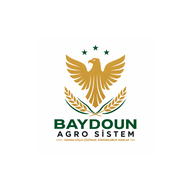
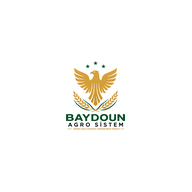
Add files via upload

Changed region(s): [[0.2812, 0.2188, 0.7188, 0.75]]

diff --git a/index.html b/index.html
@@ -4567,7 +4567,7 @@ var SCHEMA_VERSION = 5;
 // verify-version.js للتأكد من التطابق قبل التسليم.
 // sw.js يقرأ هذا الرقم تلقائياً عبر postMessage عند كل تحميل — لا حاجة
 // لتعديل CACHE_NAME في sw.js يدوياً.
-var APP_VERSION = '20.25';
+var APP_VERSION = '20.26';
 
 function _buildSnap() {
   // جمع dosesDB و doseHistory بأمان حتى لو لم تُحمَّل بعد

diff --git a/sw.js b/sw.js
@@ -4,7 +4,7 @@
 
 // ⚠ رقم الإصدار يُحدَّث تلقائياً من index.html عبر postMessage
 // لتغيير الإصدار يدوياً: غيّر APP_VERSION في index.html فقط
-let CACHE_NAME = 'baydoun-agro-v20.25';
+let CACHE_NAME = 'baydoun-agro-v20.26';
 
 // Local app shell + CDN assets to pre-cache for offline use
 const PRECACHE = [

diff --git a/CHANGELOG.md b/CHANGELOG.md
@@ -1,3 +1,7 @@
+## V20.26 — Roomier splash / launcher icon
+- Regenerated the maskable icons (192/512) with the logo at ~31% of the canvas on pure white, so Android's rounded splash/launcher mask no longer crops the wordmark or tagline and the logo sits comfortably in the centre.
+- Updated APP_VERSION and service-worker cache to 20.26. Data structures unchanged.
+
 ## V20.25 — Logo fix for local/Android opening
 - Fixed the broken logo images (header, home banner, side menu, About page) that appeared when the app was opened locally (content:// / file://), where external files do not load.
 - The optimized 700×700 WebP logo is now embedded once inside index.html (single copy, ~40KB) and applied to every logo location; favicons/apple-touch icon are embedded too.
